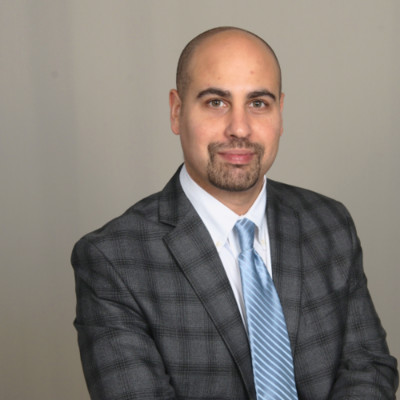
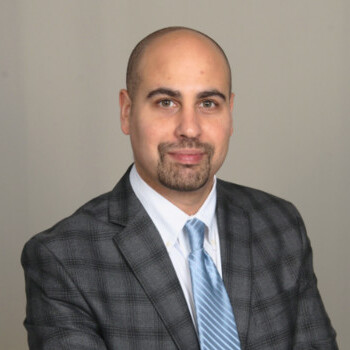
update img

diff --git a/_pages/00_home.md b/_pages/00_home.md
@@ -80,7 +80,7 @@ We invite high-quality research papers to our workshop. For detailed information
 
 <div class="user-cards">
   <div class="user-card">
-    <img src="assets/img/org_kim.jpeg" class="user-image" alt="Joon-Seok Kim">
+    <img src="assets/img/org_kim.jpg" class="user-image" alt="Joon-Seok Kim">
     <a class="user-name" href="https://www.joonseok.org/">Joon-Seok Kim</a>
     <span>Emory University</span>
   </div>
